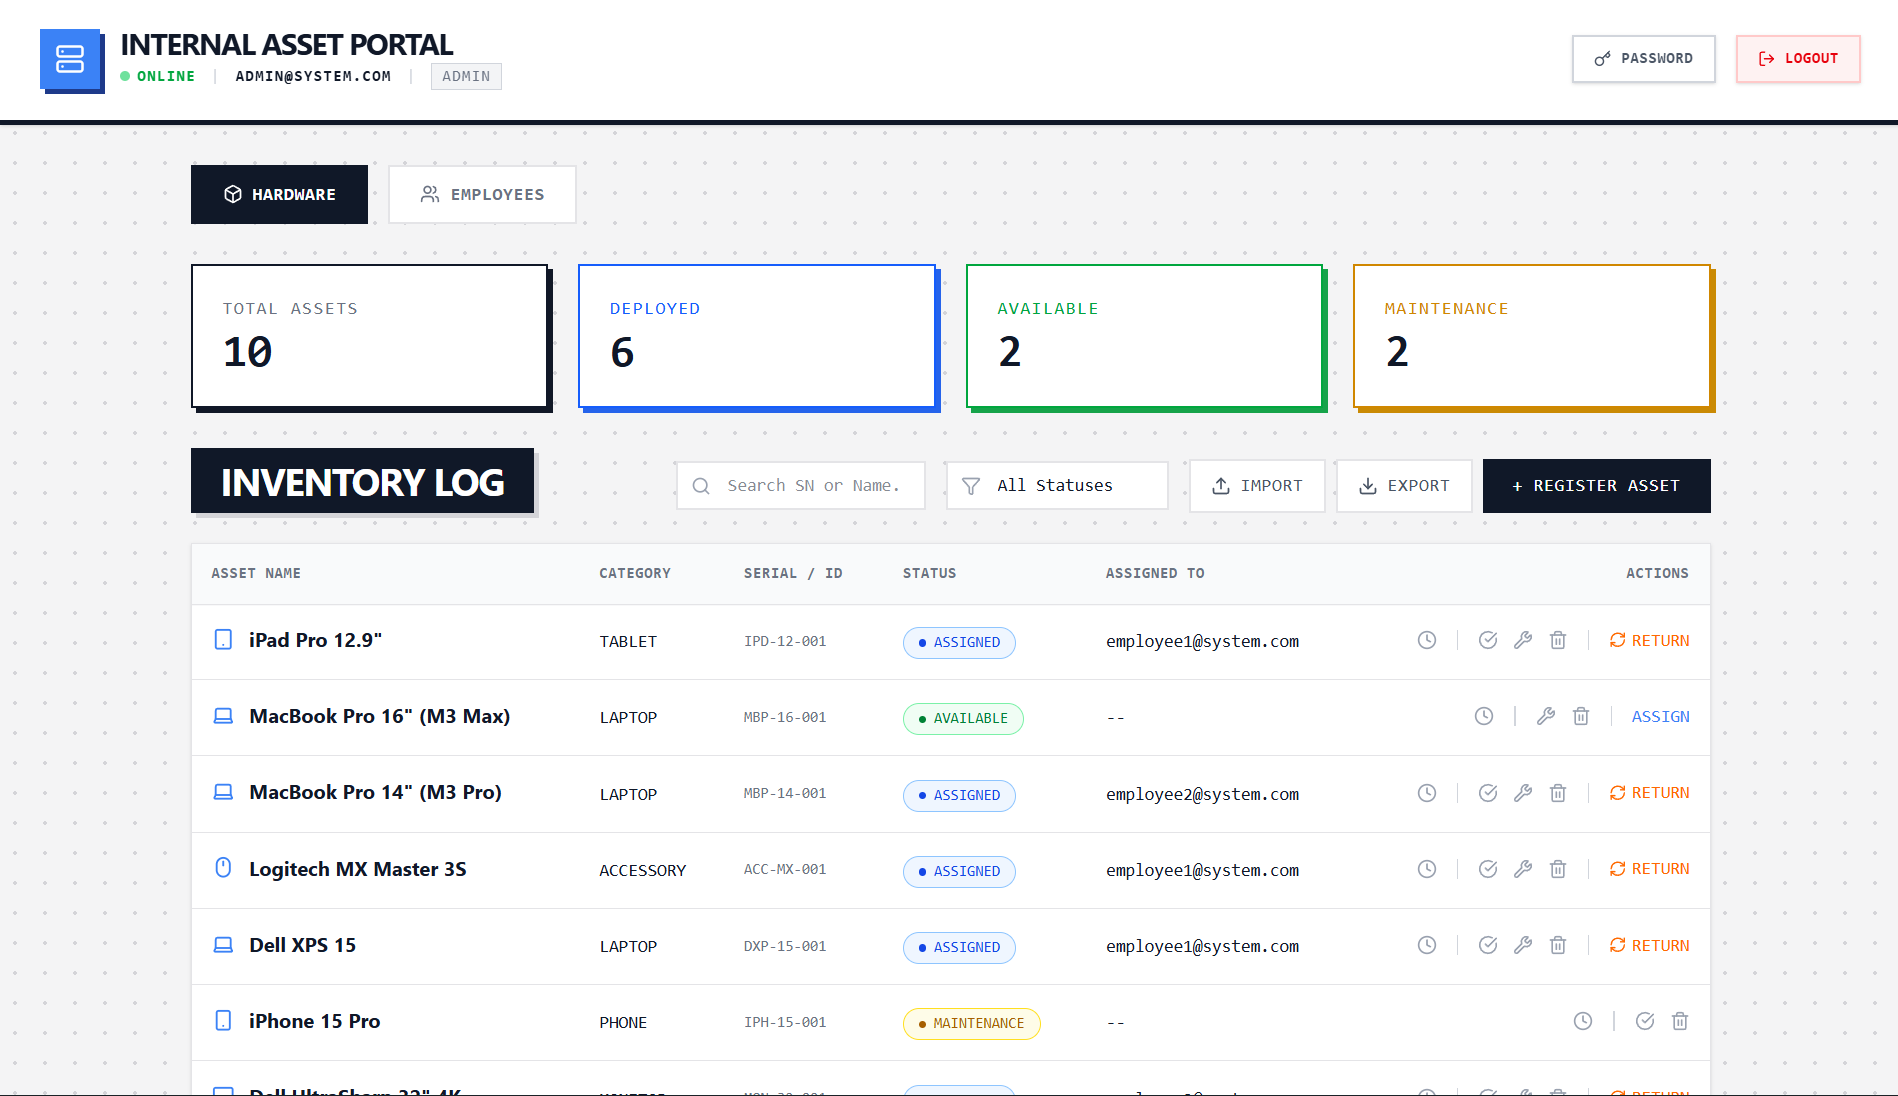
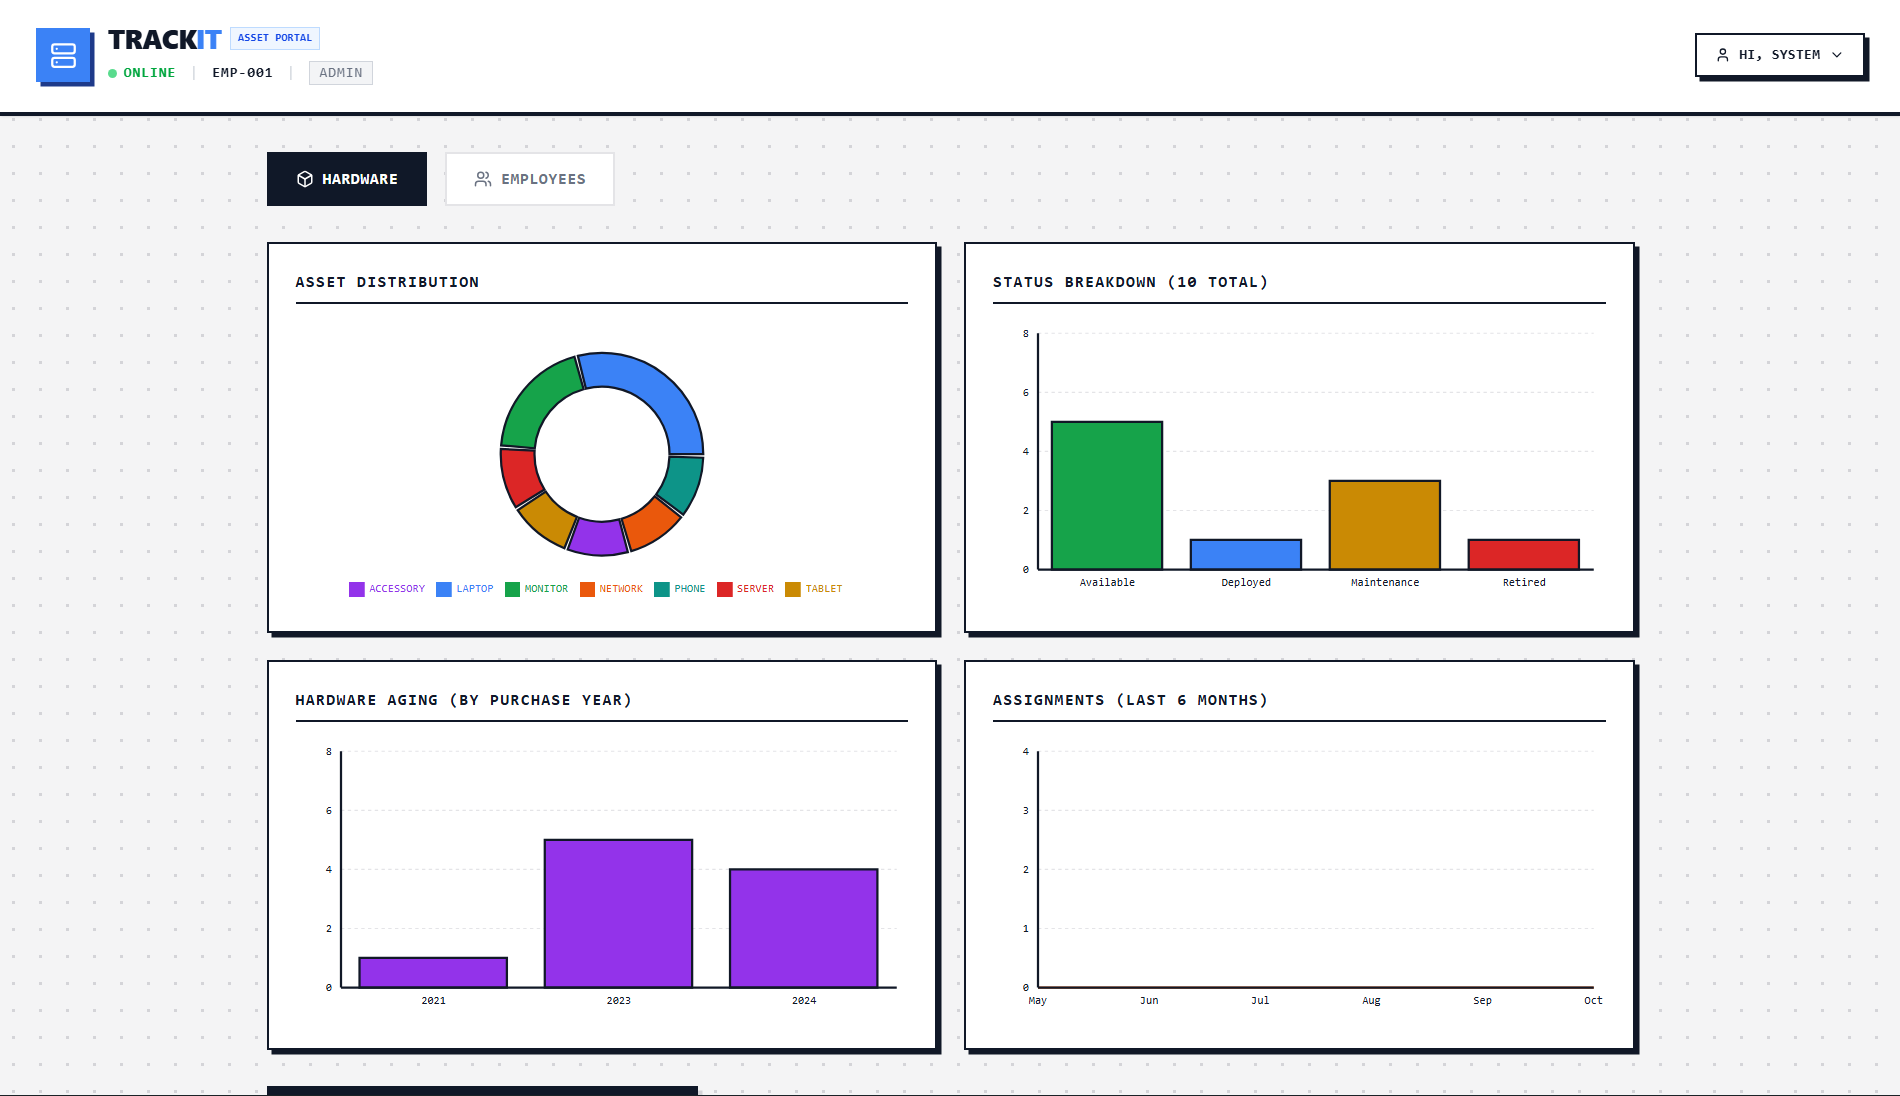
feat: update TrackIT screenshots, add 4-slide carousel animation, and update project links

diff --git a/index.html b/index.html
@@ -276,12 +276,14 @@
               <div class="project-header">
                 <span class="mono live-status"><span class="pulse-dot"></span> [ STATUS: ONLINE ]</span>
               </div>
-              <div class="project-img-wrapper">
+              <div class="project-img-wrapper carousel-4">
                 <div class="project-img-inner carousel-img" style="background-image: url('/asset-portal-bg-1.png');">
                 </div>
                 <div class="project-img-inner carousel-img" style="background-image: url('/asset-portal-bg-2.png');">
                 </div>
                 <div class="project-img-inner carousel-img" style="background-image: url('/asset-portal-bg-3.png');">
+                </div>
+                <div class="project-img-inner carousel-img" style="background-image: url('/asset-portal-bg-4.png');">
                 </div>
                 <div class="scanner-overlay">
                 </div>

diff --git a/src/style.css b/src/style.css
@@ -1836,6 +1836,36 @@ h2 {
   100% { opacity: 0; }
 }
 
+/* 4-Slide Carousel Support */
+.carousel-4 .carousel-img {
+  animation-name: carouselFade4;
+  animation-duration: 16s;
+}
+
+.carousel-4 .carousel-img:nth-child(1) {
+  animation-delay: 0s;
+}
+
+.carousel-4 .carousel-img:nth-child(2) {
+  animation-delay: 4s;
+}
+
+.carousel-4 .carousel-img:nth-child(3) {
+  animation-delay: 8s;
+}
+
+.carousel-4 .carousel-img:nth-child(4) {
+  animation-delay: 12s;
+}
+
+@keyframes carouselFade4 {
+  0% { opacity: 0; }
+  3% { opacity: 1; }
+  22% { opacity: 1; }
+  25% { opacity: 0; }
+  100% { opacity: 0; }
+}
+
 /* 5-Slide Carousel Support */
 .carousel-5 .carousel-img {
   animation-name: carouselFade5;
